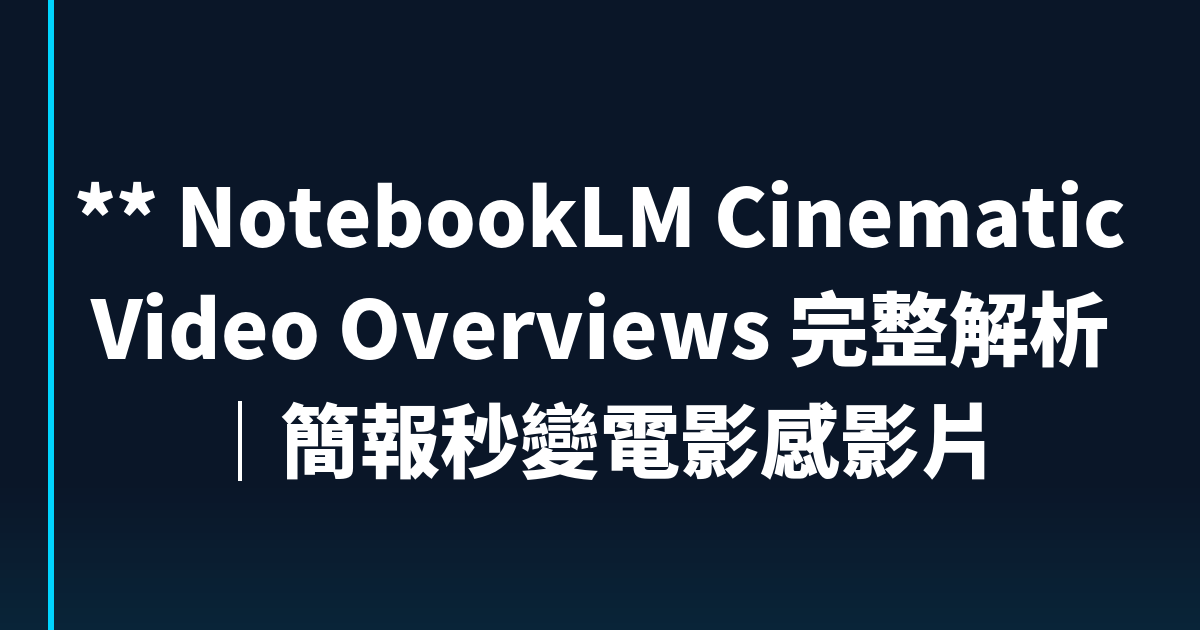
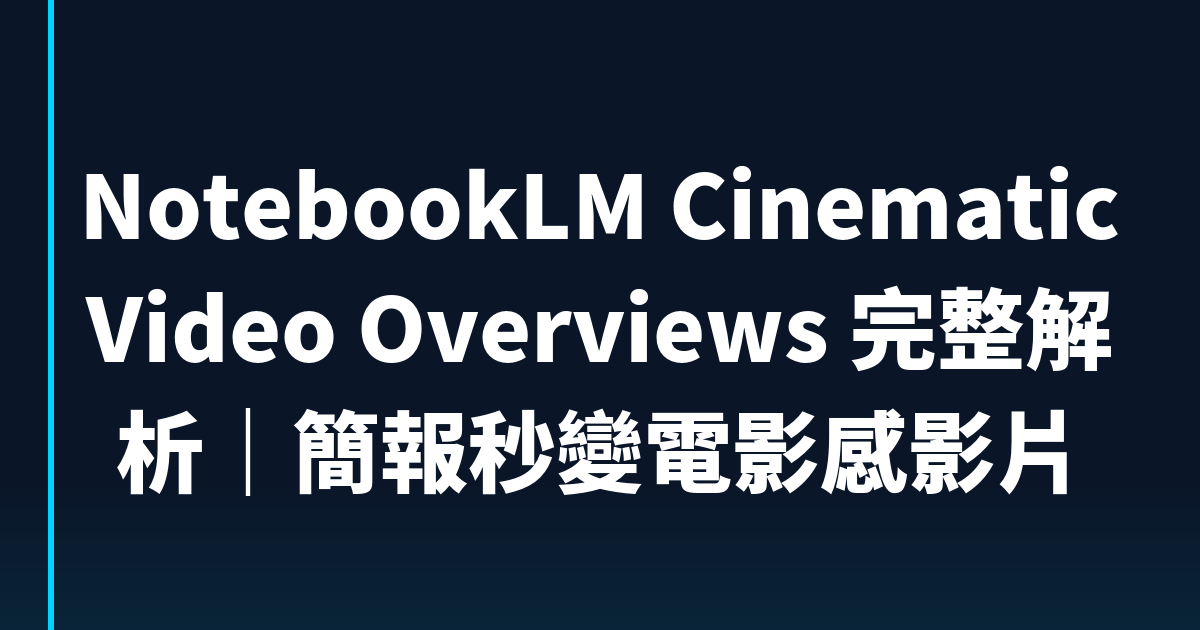
blog: rebuild site

Changed region(s): [[0.0925, 0.6333, 0.8942, 0.7841], [0.0617, 0.4524, 0.925, 0.6032], [0.0617, 0.2714, 0.9558, 0.3921]]

diff --git a/blog/notebooklm-cinematic-video-overviews/index.html b/blog/notebooklm-cinematic-video-overviews/index.html
@@ -3,16 +3,16 @@
 <head>
   <meta charset="UTF-8">
   <meta name="viewport" content="width=device-width, initial-scale=1.0">
-  <title>** NotebookLM Cinematic Video Overviews 完整解析｜簡報秒變電影感影片 — 阿峰老師</title>
-  <meta name="description" content="** Google NotebookLM 推出 Cinematic Video Overviews，結合 Gemini 3、Veo 3、Nano Banana Pro 三大 AI 模型，把簡報自動變成電影感影片。功能解析、應用場景與實戰建議。">
+  <title>NotebookLM Cinematic Video Overviews 完整解析｜簡報秒變電影感影片 — 阿峰老師</title>
+  <meta name="description" content="Google NotebookLM 推出 Cinematic Video Overviews，結合 Gemini 3、Veo 3、Nano Banana Pro 三大 AI 模型，把簡報自動變成電影感影片。功能解析、應用場景與實戰建議。">
   <meta name="keywords" content="">
   <meta name="author" content="黃敬峰（AI峰哥）">
   <link rel="canonical" href="https://blog.autolab.cloud/notebooklm-cinematic-video-overviews/">
 
   <!-- Open Graph -->
   <meta property="og:type" content="article">
-  <meta property="og:title" content="** NotebookLM Cinematic Video Overviews 完整解析｜簡報秒變電影感影片">
-  <meta property="og:description" content="** Google NotebookLM 推出 Cinematic Video Overviews，結合 Gemini 3、Veo 3、Nano Banana Pro 三大 AI 模型，把簡報自動變成電影感影片。功能解析、應用場景與實戰建議。">
+  <meta property="og:title" content="NotebookLM Cinematic Video Overviews 完整解析｜簡報秒變電影感影片">
+  <meta property="og:description" content="Google NotebookLM 推出 Cinematic Video Overviews，結合 Gemini 3、Veo 3、Nano Banana Pro 三大 AI 模型，把簡報自動變成電影感影片。功能解析、應用場景與實戰建議。">
   <meta property="og:image" content="https://blog.autolab.cloud/notebooklm-cinematic-video-overviews/banner.png">
   <meta property="og:image:width" content="1200">
   <meta property="og:image:height" content="630">
@@ -25,12 +25,11 @@
 
   <!-- Twitter Card -->
   <meta name="twitter:card" content="summary_large_image">
-  <meta name="twitter:title" content="** NotebookLM Cinematic Video Overviews 完整解析｜簡報秒變電影感影片">
-  <meta name="twitter:description" content="** Google NotebookLM 推出 Cinematic Video Overviews，結合 Gemini 3、Veo 3、Nano Banana Pro 三大 AI 模型，把簡報自動變成電影感影片。功能解析、應用場景與實戰建議。">
+  <meta name="twitter:title" content="NotebookLM Cinematic Video Overviews 完整解析｜簡報秒變電影感影片">
+  <meta name="twitter:description" content="Google NotebookLM 推出 Cinematic Video Overviews，結合 Gemini 3、Veo 3、Nano Banana Pro 三大 AI 模型，把簡報自動變成電影感影片。功能解析、應用場景與實戰建議。">
   <meta name="twitter:image" content="https://blog.autolab.cloud/notebooklm-cinematic-video-overviews/banner.png">
 
   <!-- Article Tags -->
-  <meta property="article:tag" content="**">
   <meta property="article:tag" content="NotebookLM">
   <meta property="article:tag" content="Google">
   <meta property="article:tag" content="AI">
@@ -47,8 +46,8 @@
   <meta property="article:tag" content="阿峰老師">
 
   <!-- JSON-LD -->
-  <script type="application/ld+json">{"@context": "https://schema.org", "@type": "Article", "headline": "** NotebookLM Cinematic Video Overviews 完整解析｜簡報秒變電影感影片", "description": "** Google NotebookLM 推出 Cinematic Video Overviews，結合 Gemini 3、Veo 3、Nano Banana Pro 三大 AI 模型，把簡報自動變成電影感影片。功能解析、應用場景與實戰建議。", "author": {"@type": "Person", "name": "黃敬峰（AI峰哥）", "url": "https://www.autolab.cloud"}, "publisher": {"@type": "Organization", "name": "Autolab", "url": "https://www.autolab.cloud", "logo": {"@type": "ImageObject", "url": "https://blog.autolab.cloud/static/og-default.png"}}, "datePublished": "2026-03-08T00:00:00+08:00", "dateModified": "2026-03-08T00:00:00+08:00", "image": "https://blog.autolab.cloud/notebooklm-cinematic-video-overviews/banner.png", "mainEntityOfPage": "https://blog.autolab.cloud/notebooklm-cinematic-video-overviews/", "keywords": "", "inLanguage": "zh-Hant-TW"}</script>
-  <script type="application/ld+json">{"@context": "https://schema.org", "@type": "BreadcrumbList", "itemListElement": [{"@type": "ListItem", "position": 1, "name": "Blog", "item": "https://blog.autolab.cloud/"}, {"@type": "ListItem", "position": 2, "name": "** NotebookLM Cinematic Video Overviews 完整解析｜簡報秒變電影感影片", "item": "https://blog.autolab.cloud/notebooklm-cinematic-video-overviews/"}]}</script>
+  <script type="application/ld+json">{"@context": "https://schema.org", "@type": "Article", "headline": "NotebookLM Cinematic Video Overviews 完整解析｜簡報秒變電影感影片", "description": "Google NotebookLM 推出 Cinematic Video Overviews，結合 Gemini 3、Veo 3、Nano Banana Pro 三大 AI 模型，把簡報自動變成電影感影片。功能解析、應用場景與實戰建議。", "author": {"@type": "Person", "name": "黃敬峰（AI峰哥）", "url": "https://www.autolab.cloud"}, "publisher": {"@type": "Organization", "name": "Autolab", "url": "https://www.autolab.cloud", "logo": {"@type": "ImageObject", "url": "https://blog.autolab.cloud/static/og-default.png"}}, "datePublished": "2026-03-08T00:00:00+08:00", "dateModified": "2026-03-08T00:00:00+08:00", "image": "https://blog.autolab.cloud/notebooklm-cinematic-video-overviews/banner.png", "mainEntityOfPage": "https://blog.autolab.cloud/notebooklm-cinematic-video-overviews/", "keywords": "", "inLanguage": "zh-Hant-TW"}</script>
+  <script type="application/ld+json">{"@context": "https://schema.org", "@type": "BreadcrumbList", "itemListElement": [{"@type": "ListItem", "position": 1, "name": "Blog", "item": "https://blog.autolab.cloud/"}, {"@type": "ListItem", "position": 2, "name": "NotebookLM Cinematic Video Overviews 完整解析｜簡報秒變電影感影片", "item": "https://blog.autolab.cloud/notebooklm-cinematic-video-overviews/"}]}</script>
 
   <!-- Favicon -->
   <link rel="icon" type="image/png" href="https://blog.autolab.cloud/static/favicon.png">
@@ -88,7 +87,7 @@
 
   <!-- Breadcrumbs -->
   <nav class="breadcrumbs" aria-label="麵包屑導航">
-    <a href="https://blog.autolab.cloud/">Blog</a><span class="sep">›</span><span class="current">** NotebookLM Cinematic Video Overviews 完整解析｜簡報秒變電影感影片</span>
+    <a href="https://blog.autolab.cloud/">Blog</a><span class="sep">›</span><span class="current">NotebookLM Cinematic Video Overviews 完整解析｜簡報秒變電影感影片</span>
   </nav>
 
   <!-- HEADER -->
@@ -97,12 +96,12 @@
       <span>2026-03-08</span>
       <span>黃敬峰（AI峰哥）</span>
     </div>
-    <h1>** NotebookLM Cinematic Video Overviews 完整解析｜簡報秒變電影感影片</h1>
-    <div class="card-tags"><span class="tag">**</span><span class="tag">NotebookLM</span><span class="tag">Google</span><span class="tag">AI</span><span class="tag">Cinematic</span><span class="tag">Video</span><span class="tag">Overviews</span><span class="tag">AI工具</span><span class="tag">影片生成</span><span class="tag">Gemini</span><span class="tag">3</span><span class="tag">Veo</span><span class="tag">3</span><span class="tag">企業培訓</span><span class="tag">阿峰老師</span></div>
+    <h1>NotebookLM Cinematic Video Overviews 完整解析｜簡報秒變電影感影片</h1>
+    <div class="card-tags"><span class="tag">NotebookLM</span><span class="tag">Google</span><span class="tag">AI</span><span class="tag">Cinematic</span><span class="tag">Video</span><span class="tag">Overviews</span><span class="tag">AI工具</span><span class="tag">影片生成</span><span class="tag">Gemini</span><span class="tag">3</span><span class="tag">Veo</span><span class="tag">3</span><span class="tag">企業培訓</span><span class="tag">阿峰老師</span></div>
   </header>
 
   <!-- Featured Image -->
-  <div class="featured-image-wrapper"><img src="banner.png" alt="** NotebookLM Cinematic Video Overviews 完整解析｜簡報秒變電影感影片" class="featured-image" loading="lazy" width="780" height="438"></div>
+  <div class="featured-image-wrapper"><img src="banner.png" alt="NotebookLM Cinematic Video Overviews 完整解析｜簡報秒變電影感影片" class="featured-image" loading="lazy" width="780" height="438"></div>
 
   <!-- YouTube -->
   

diff --git a/blog/chatgpt-skills-ai-skills-manus-skills/index.html b/blog/chatgpt-skills-ai-skills-manus-skills/index.html
@@ -257,10 +257,10 @@
   <h2>你可能也想看</h2>
   <div class="related-grid">
     <a href="https://blog.autolab.cloud/notebooklm-cinematic-video-overviews/" class="related-card">
-  <img class="related-card-thumb" src="notebooklm-cinematic-video-overviews/banner.png" alt="** NotebookLM Cinematic Video Overviews 完整解析｜簡報秒變電影感影片" loading="lazy">
+  <img class="related-card-thumb" src="notebooklm-cinematic-video-overviews/banner.png" alt="NotebookLM Cinematic Video Overviews 完整解析｜簡報秒變電影感影片" loading="lazy">
   <div class="related-card-body">
     <div class="related-card-date">2026-03-08</div>
-    <div class="related-card-title">** NotebookLM Cinematic Video Overviews 完整解析｜簡報秒變電影感影片</div>
+    <div class="related-card-title">NotebookLM Cinematic Video Overviews 完整解析｜簡報秒變電影感影片</div>
   </div>
 </a><a href="https://blog.autolab.cloud/cursor-claude-code-ai/" class="related-card">
   <img class="related-card-thumb" src="cursor-claude-code-ai/banner.png" alt="Cursor進入戰時狀態：Claude Code 25倍補貼搶市場，AI寫程式工具未來分析" loading="lazy">
@@ -282,7 +282,7 @@
   <nav class="article-nav">
   <a href="https://blog.autolab.cloud/notebooklm-cinematic-video-overviews/" class="prev">
   <div class="nav-label">← 上一篇</div>
-  <div class="nav-title">** NotebookLM Cinematic Video Overviews 完整解析｜簡報秒變電影感影片</div>
+  <div class="nav-title">NotebookLM Cinematic Video Overviews 完整解析｜簡報秒變電影感影片</div>
 </a><a href="https://blog.autolab.cloud/claude-skills-claude-skills/" class="next">
   <div class="nav-label">下一篇 →</div>
   <div class="nav-title">Claude Skills 完整教學：Skills vs 提示詞 vs MCP 差在哪？含實戰操作指南｜2026</div>

diff --git a/blog/index.html b/blog/index.html
@@ -449,12 +449,12 @@
   <!-- 文章列表 -->
   <section class="articles" id="main-content">
     <a href="notebooklm-cinematic-video-overviews/" class="card">
-  <img class="card-thumb" src="notebooklm-cinematic-video-overviews/banner.png" alt="** NotebookLM Cinematic Video Overviews 完整解析｜簡報秒變電影感影片" loading="lazy">
+  <img class="card-thumb" src="notebooklm-cinematic-video-overviews/banner.png" alt="NotebookLM Cinematic Video Overviews 完整解析｜簡報秒變電影感影片" loading="lazy">
   <div class="card-body">
     <div class="card-date">2026-03-08</div>
-    <div class="card-title">** NotebookLM Cinematic Video Overviews 完整解析｜簡報秒變電影感影片</div>
-    <div class="card-desc">** Google NotebookLM 推出 Cinematic Video Overviews，結合 Gemini 3、Veo 3、Nano Banana Pro 三大 AI 模型，把簡報自動變成電影感影片。功能解析、應用場景與實戰建議。</div>
-    <div class="card-tags"><span class="tag">**</span><span class="tag">NotebookLM</span><span class="tag">Google</span></div>
+    <div class="card-title">NotebookLM Cinematic Video Overviews 完整解析｜簡報秒變電影感影片</div>
+    <div class="card-desc">Google NotebookLM 推出 Cinematic Video Overviews，結合 Gemini 3、Veo 3、Nano Banana Pro 三大 AI 模型，把簡報自動變成電影感影片。功能解析、應用場景與實戰建議。</div>
+    <div class="card-tags"><span class="tag">NotebookLM</span><span class="tag">Google</span><span class="tag">AI</span></div>
   </div>
 </a>
 <a href="chatgpt-skills-ai-skills-manus-skills/" class="card">

diff --git a/blog/gemini-gems-ai/index.html b/blog/gemini-gems-ai/index.html
@@ -270,10 +270,10 @@ Keywords: Gemini Gems 教學, Gemini Gems 怎麼用, AI 員工, Gems 設定, Goo
   <h2>你可能也想看</h2>
   <div class="related-grid">
     <a href="https://blog.autolab.cloud/notebooklm-cinematic-video-overviews/" class="related-card">
-  <img class="related-card-thumb" src="notebooklm-cinematic-video-overviews/banner.png" alt="** NotebookLM Cinematic Video Overviews 完整解析｜簡報秒變電影感影片" loading="lazy">
+  <img class="related-card-thumb" src="notebooklm-cinematic-video-overviews/banner.png" alt="NotebookLM Cinematic Video Overviews 完整解析｜簡報秒變電影感影片" loading="lazy">
   <div class="related-card-body">
     <div class="related-card-date">2026-03-08</div>
-    <div class="related-card-title">** NotebookLM Cinematic Video Overviews 完整解析｜簡報秒變電影感影片</div>
+    <div class="related-card-title">NotebookLM Cinematic Video Overviews 完整解析｜簡報秒變電影感影片</div>
   </div>
 </a><a href="https://blog.autolab.cloud/gemini-3-1-pro-ai-landing-page-ai-gemini/" class="related-card">
   <img class="related-card-thumb" src="gemini-3-1-pro-ai-landing-page-ai-gemini/banner.png" alt="Gemini 3.1 Pro 實測：5 分鐘做出高質感網頁｜AI 網頁生成教學" loading="lazy">

diff --git a/blog/ai-openai-codex-ai/index.html b/blog/ai-openai-codex-ai/index.html
@@ -242,10 +242,10 @@
     <div class="related-card-title">Vibe Coding 入門指南：工具人時代結束，用 AI 協作解決真問題</div>
   </div>
 </a><a href="https://blog.autolab.cloud/notebooklm-cinematic-video-overviews/" class="related-card">
-  <img class="related-card-thumb" src="notebooklm-cinematic-video-overviews/banner.png" alt="** NotebookLM Cinematic Video Overviews 完整解析｜簡報秒變電影感影片" loading="lazy">
+  <img class="related-card-thumb" src="notebooklm-cinematic-video-overviews/banner.png" alt="NotebookLM Cinematic Video Overviews 完整解析｜簡報秒變電影感影片" loading="lazy">
   <div class="related-card-body">
     <div class="related-card-date">2026-03-08</div>
-    <div class="related-card-title">** NotebookLM Cinematic Video Overviews 完整解析｜簡報秒變電影感影片</div>
+    <div class="related-card-title">NotebookLM Cinematic Video Overviews 完整解析｜簡報秒變電影感影片</div>
   </div>
 </a><a href="https://blog.autolab.cloud/chatgpt-skills-ai-skills-manus-skills/" class="related-card">
   <img class="related-card-thumb" src="chatgpt-skills-ai-skills-manus-skills/banner.png" alt="ChatGPT Skills 正式登場！比 GPT 5.4 更值得注意的新功能" loading="lazy">

diff --git a/blog/claude-code-10-real-products/index.html b/blog/claude-code-10-real-products/index.html
@@ -269,10 +269,10 @@
     <div class="related-card-title">Vibe Coding 入門指南：工具人時代結束，用 AI 協作解決真問題</div>
   </div>
 </a><a href="https://blog.autolab.cloud/notebooklm-cinematic-video-overviews/" class="related-card">
-  <img class="related-card-thumb" src="notebooklm-cinematic-video-overviews/banner.png" alt="** NotebookLM Cinematic Video Overviews 完整解析｜簡報秒變電影感影片" loading="lazy">
+  <img class="related-card-thumb" src="notebooklm-cinematic-video-overviews/banner.png" alt="NotebookLM Cinematic Video Overviews 完整解析｜簡報秒變電影感影片" loading="lazy">
   <div class="related-card-body">
     <div class="related-card-date">2026-03-08</div>
-    <div class="related-card-title">** NotebookLM Cinematic Video Overviews 完整解析｜簡報秒變電影感影片</div>
+    <div class="related-card-title">NotebookLM Cinematic Video Overviews 完整解析｜簡報秒變電影感影片</div>
   </div>
 </a><a href="https://blog.autolab.cloud/chatgpt-skills-ai-skills-manus-skills/" class="related-card">
   <img class="related-card-thumb" src="chatgpt-skills-ai-skills-manus-skills/banner.png" alt="ChatGPT Skills 正式登場！比 GPT 5.4 更值得注意的新功能" loading="lazy">

diff --git a/blog/ai-2026-ai/index.html b/blog/ai-2026-ai/index.html
@@ -373,10 +373,10 @@
   <h2>你可能也想看</h2>
   <div class="related-grid">
     <a href="https://blog.autolab.cloud/notebooklm-cinematic-video-overviews/" class="related-card">
-  <img class="related-card-thumb" src="notebooklm-cinematic-video-overviews/banner.png" alt="** NotebookLM Cinematic Video Overviews 完整解析｜簡報秒變電影感影片" loading="lazy">
+  <img class="related-card-thumb" src="notebooklm-cinematic-video-overviews/banner.png" alt="NotebookLM Cinematic Video Overviews 完整解析｜簡報秒變電影感影片" loading="lazy">
   <div class="related-card-body">
     <div class="related-card-date">2026-03-08</div>
-    <div class="related-card-title">** NotebookLM Cinematic Video Overviews 完整解析｜簡報秒變電影感影片</div>
+    <div class="related-card-title">NotebookLM Cinematic Video Overviews 完整解析｜簡報秒變電影感影片</div>
   </div>
 </a><a href="https://blog.autolab.cloud/claude-skills-claude-skills/" class="related-card">
   <img class="related-card-thumb" src="claude-skills-claude-skills/banner.png" alt="Claude Skills 完整教學：Skills vs 提示詞 vs MCP 差在哪？含實戰操作指南｜2026" loading="lazy">

diff --git a/blog/notebooklm-ai/index.html b/blog/notebooklm-ai/index.html
@@ -293,10 +293,10 @@
   <h2>你可能也想看</h2>
   <div class="related-grid">
     <a href="https://blog.autolab.cloud/notebooklm-cinematic-video-overviews/" class="related-card">
-  <img class="related-card-thumb" src="notebooklm-cinematic-video-overviews/banner.png" alt="** NotebookLM Cinematic Video Overviews 完整解析｜簡報秒變電影感影片" loading="lazy">
+  <img class="related-card-thumb" src="notebooklm-cinematic-video-overviews/banner.png" alt="NotebookLM Cinematic Video Overviews 完整解析｜簡報秒變電影感影片" loading="lazy">
   <div class="related-card-body">
     <div class="related-card-date">2026-03-08</div>
-    <div class="related-card-title">** NotebookLM Cinematic Video Overviews 完整解析｜簡報秒變電影感影片</div>
+    <div class="related-card-title">NotebookLM Cinematic Video Overviews 完整解析｜簡報秒變電影感影片</div>
   </div>
 </a><a href="https://blog.autolab.cloud/claude-skills-claude-skills/" class="related-card">
   <img class="related-card-thumb" src="claude-skills-claude-skills/banner.png" alt="Claude Skills 完整教學：Skills vs 提示詞 vs MCP 差在哪？含實戰操作指南｜2026" loading="lazy">

diff --git a/blog/ai-keyboard-work-one-person-company/index.html b/blog/ai-keyboard-work-one-person-company/index.html
@@ -292,10 +292,10 @@
   <h2>你可能也想看</h2>
   <div class="related-grid">
     <a href="https://blog.autolab.cloud/notebooklm-cinematic-video-overviews/" class="related-card">
-  <img class="related-card-thumb" src="notebooklm-cinematic-video-overviews/banner.png" alt="** NotebookLM Cinematic Video Overviews 完整解析｜簡報秒變電影感影片" loading="lazy">
+  <img class="related-card-thumb" src="notebooklm-cinematic-video-overviews/banner.png" alt="NotebookLM Cinematic Video Overviews 完整解析｜簡報秒變電影感影片" loading="lazy">
   <div class="related-card-body">
     <div class="related-card-date">2026-03-08</div>
-    <div class="related-card-title">** NotebookLM Cinematic Video Overviews 完整解析｜簡報秒變電影感影片</div>
+    <div class="related-card-title">NotebookLM Cinematic Video Overviews 完整解析｜簡報秒變電影感影片</div>
   </div>
 </a><a href="https://blog.autolab.cloud/chatgpt-skills-ai-skills-manus-skills/" class="related-card">
   <img class="related-card-thumb" src="chatgpt-skills-ai-skills-manus-skills/banner.png" alt="ChatGPT Skills 正式登場！比 GPT 5.4 更值得注意的新功能" loading="lazy">

diff --git a/blog/ai-new-business-rules/index.html b/blog/ai-new-business-rules/index.html
@@ -243,10 +243,10 @@
   <h2>你可能也想看</h2>
   <div class="related-grid">
     <a href="https://blog.autolab.cloud/notebooklm-cinematic-video-overviews/" class="related-card">
-  <img class="related-card-thumb" src="notebooklm-cinematic-video-overviews/banner.png" alt="** NotebookLM Cinematic Video Overviews 完整解析｜簡報秒變電影感影片" loading="lazy">
+  <img class="related-card-thumb" src="notebooklm-cinematic-video-overviews/banner.png" alt="NotebookLM Cinematic Video Overviews 完整解析｜簡報秒變電影感影片" loading="lazy">
   <div class="related-card-body">
     <div class="related-card-date">2026-03-08</div>
-    <div class="related-card-title">** NotebookLM Cinematic Video Overviews 完整解析｜簡報秒變電影感影片</div>
+    <div class="related-card-title">NotebookLM Cinematic Video Overviews 完整解析｜簡報秒變電影感影片</div>
   </div>
 </a><a href="https://blog.autolab.cloud/chatgpt-skills-ai-skills-manus-skills/" class="related-card">
   <img class="related-card-thumb" src="chatgpt-skills-ai-skills-manus-skills/banner.png" alt="ChatGPT Skills 正式登場！比 GPT 5.4 更值得注意的新功能" loading="lazy">

diff --git a/blog/macbook-neo-ai/index.html b/blog/macbook-neo-ai/index.html
@@ -346,10 +346,10 @@
   <h2>你可能也想看</h2>
   <div class="related-grid">
     <a href="https://blog.autolab.cloud/notebooklm-cinematic-video-overviews/" class="related-card">
-  <img class="related-card-thumb" src="notebooklm-cinematic-video-overviews/banner.png" alt="** NotebookLM Cinematic Video Overviews 完整解析｜簡報秒變電影感影片" loading="lazy">
+  <img class="related-card-thumb" src="notebooklm-cinematic-video-overviews/banner.png" alt="NotebookLM Cinematic Video Overviews 完整解析｜簡報秒變電影感影片" loading="lazy">
   <div class="related-card-body">
     <div class="related-card-date">2026-03-08</div>
-    <div class="related-card-title">** NotebookLM Cinematic Video Overviews 完整解析｜簡報秒變電影感影片</div>
+    <div class="related-card-title">NotebookLM Cinematic Video Overviews 完整解析｜簡報秒變電影感影片</div>
   </div>
 </a><a href="https://blog.autolab.cloud/chatgpt-skills-ai-skills-manus-skills/" class="related-card">
   <img class="related-card-thumb" src="chatgpt-skills-ai-skills-manus-skills/banner.png" alt="ChatGPT Skills 正式登場！比 GPT 5.4 更值得注意的新功能" loading="lazy">
